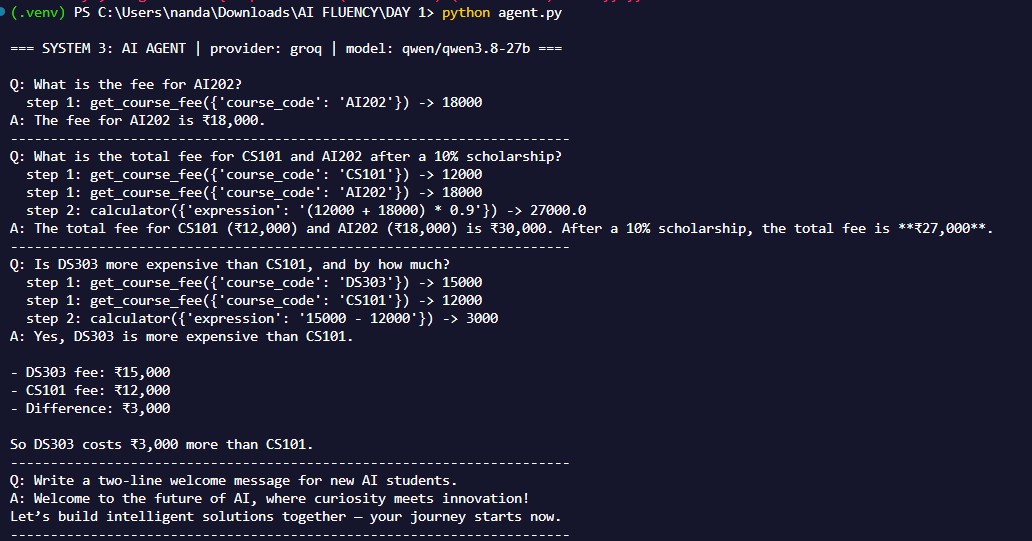
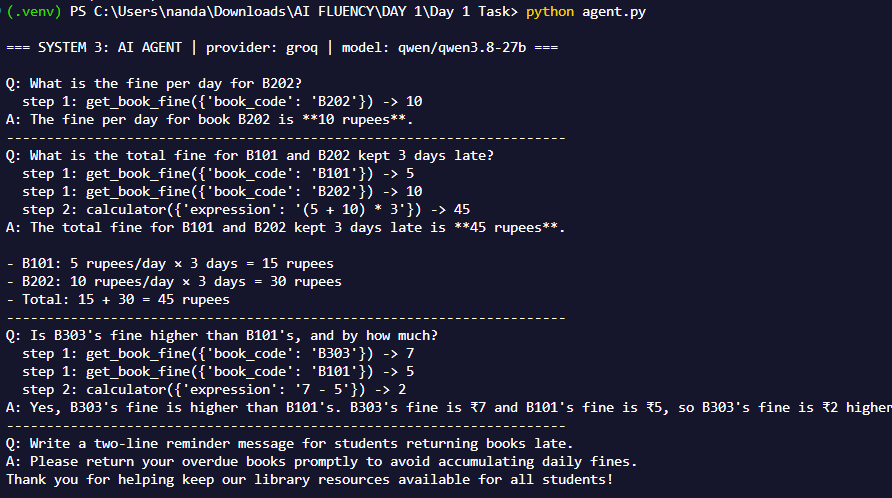
third commit

Changed region(s): [[0.0, 0.0, 0.9686, 0.6325], [0.0, 0.6627, 1.0, 0.994]]

diff --git a/Day 1 Task/tools.py b/Day 1 Task/tools.py
@@ -1,12 +1,12 @@
 """Tools the agent is allowed to use, plus their JSON Schema descriptions."""
 import ast
 import operator
-from config import COURSE_FEES
+from config import BOOK_FINES
 
-def get_course_fee(course_code: str) -> str:
-    """Look up the fee for one course code."""
-    fee = COURSE_FEES.get(course_code.strip().upper())
-    return str(fee) if fee is not None else f"Unknown course code: {course_code}"
+def get_book_fine(book_code: str) -> str:
+    """Look up the fine for one book code."""
+    fine = BOOK_FINES.get(book_code.strip().upper())
+    return str(fine) if fine is not None else f"Unknown book code: {book_code}"
 
 # A safe calculator: only numbers and + - * / ( ) are allowed. Never use eval().
 _OPS = {ast.Add: operator.add, ast.Sub: operator.sub, ast.Mult: operator.mul,
@@ -28,16 +28,16 @@ def calculator(expression: str) -> str:
     except Exception as error:
         return f"Calculator error: {error}"
 
-TOOL_FUNCTIONS = {"get_course_fee": get_course_fee, "calculator": calculator}
+TOOL_FUNCTIONS = {"get_book_fine": get_book_fine, "calculator": calculator}
 
 # These descriptions are what the LLM reads when deciding which tool to call
 TOOLS = [
     {"type": "function", "function": {
-        "name": "get_course_fee",
-        "description": "Get the fee in rupees for a single course code, for example CS101.",
+        "name": "get_book_fine",
+        "description": "Get the daily fine in rupees for a single book code, for example B101.",
         "parameters": {"type": "object",
-                        "properties": {"course_code": {"type": "string"}},
-                        "required": ["course_code"]}}},
+                        "properties": {"book_code": {"type": "string"}},
+                        "required": ["book_code"]}}},
     {"type": "function", "function": {
         "name": "calculator",
         "description": "Evaluate an arithmetic expression using + - * / and brackets.",
@@ -47,6 +47,6 @@ TOOLS = [
 ]
 
 if __name__ == "__main__":
-    print("get_course_fee('ai202') ->", get_course_fee("ai202"))
-    print("calculator('(12000 + 18000) * 0.9') ->", calculator("(12000 + 18000) * 0.9"))
-    print("calculator('15000 - 12000') ->", calculator("15000 - 12000"))
+    print("get_book_fine('b202') ->", get_book_fine("b202"))
+    print("calculator('(5 + 10) * 3') ->", calculator("(5 + 10) * 3"))
+    print("calculator('7 - 5') ->", calculator("7 - 5"))

diff --git a/Day 1 Task/workflow.py b/Day 1 Task/workflow.py
@@ -1,25 +1,25 @@
 """System 2: a rule-based workflow. Fixed if/else rules, no LLM at all."""
 import re
-from config import COURSE_FEES, QUESTIONS
+from config import BOOK_FINES, QUESTIONS
 
 def workflow(question):
-    codes = re.findall(r"[A-Z]{2}\d{3}", question.upper())
-    fees = [COURSE_FEES[code] for code in codes if code in COURSE_FEES]
+    codes = re.findall(r"[A-Z]\d{3}", question.upper())
+    fines = [BOOK_FINES[code] for code in codes if code in BOOK_FINES]
 
-    if not fees:
-        return "Sorry, I can only answer questions about course fees."
+    if not fines:
+        return "Sorry, I can only answer questions about book fines."
 
     text = question.lower()
 
     if "total" in text:
-        total = sum(fees)
-        percent = re.search(r"(\d+)\s*%", text)
-        if "scholarship" in text and percent:
-            total = total * (1 - int(percent.group(1)) / 100)
-        return f"Total fee: Rs. {total:,.0f}"
+        total = sum(fines)
+        days = re.search(r"(\d+)\s*days?", text)
+        if days:
+            total = total * int(days.group(1))
+        return f"Total fine: Rs. {total:,.0f}"
 
-    if len(fees) == 1:
-        return f"Fee for {codes[0]}: Rs. {fees[0]:,}"
+    if len(fines) == 1:
+        return f"Fine for {codes[0]}: Rs. {fines[0]:,}"
 
     return "Sorry, I do not have a rule for this type of question."
 

diff --git a/Day 1 Task/config.py b/Day 1 Task/config.py
@@ -27,14 +27,14 @@ if not API_KEY:
 
 client = OpenAI(base_url=BASE_URL, api_key=API_KEY)
 
-# Private college data that no public LLM has ever seen
-COURSE_FEES = {"CS101": 12000, "AI202": 18000, "DS303": 15000}
+# Private library data that no public LLM has ever seen
+BOOK_FINES = {"B101": 5, "B202": 10, "B303": 7}
 
 QUESTIONS = [
-    "What is the fee for AI202?",
-    "What is the total fee for CS101 and AI202 after a 10% scholarship?",
-    "Is DS303 more expensive than CS101, and by how much?",
-    "Write a two-line welcome message for new AI students.",
+    "What is the fine per day for B202?",
+    "What is the total fine for B101 and B202 kept 3 days late?",
+    "Is B303's fine higher than B101's, and by how much?",
+    "Write a two-line reminder message for students returning books late.",
 ]
 
 def banner(system_name):

diff --git a/Day 1 Task/chatbot.py b/Day 1 Task/chatbot.py
@@ -1,11 +1,11 @@
-"""System 1: a plain LLM chatbot. No tools, no access to the college data."""
+"""System 1: a plain LLM chatbot. No tools, no access to the library data."""
 from config import client, MODEL, QUESTIONS, banner
 
 def chatbot(question):
     response = client.chat.completions.create(
         model=MODEL,
         messages=[
-            {"role": "system", "content": "You are a helpful college assistant."},
+            {"role": "system", "content": "You are a helpful library assistant."},
             {"role": "user", "content": question},
         ],
         temperature=0,

diff --git a/Day 1 Task/agent.py b/Day 1 Task/agent.py
@@ -6,8 +6,8 @@ from config import client, MODEL, QUESTIONS, banner
 from tools import TOOLS, TOOL_FUNCTIONS
 
 SYSTEM_PROMPT = (
-    "You are a college fee assistant. Never guess a fee: always use get_course_fee. "
-    "Use calculator for any arithmetic. Available course codes: CS101, AI202, DS303. "
+    "You are a library assistant. Never guess a fine: always use get_book_fine. "
+    "Use calculator for any arithmetic. Available book codes: B101, B202, B303. "
     "If no tool is needed, answer directly."
 )
 

diff --git a/Day 1 Task/analysis.md b/Day 1 Task/analysis.md
@@ -1,123 +1,144 @@
-# Comparing a Chatbot, Rule-Based Workflow, and AI Agent — College Fee Scenario
+# Comparing a Chatbot, Rule-Based Workflow, and AI Agent — Library Fine Scenario
 
 ## Scenario
 
-A college has three courses with fee data that no public LLM has seen:
-CS101 = Rs. 12,000, AI202 = Rs. 18,000, and DS303 = Rs. 15,000. Three
-systems were built to answer the same set of questions about these
-fees: a plain chatbot, a rule-based workflow, and an AI agent.
+A college library tracks daily overdue fines for three book codes: B101
+(Rs. 5 per day), B202 (Rs. 10 per day), and B303 (Rs. 7 per day). This
+fine data is private to the library and has never been seen by any
+public LLM. Three systems were built and tested on the same set of
+questions: a plain chatbot, a rule-based workflow, and an AI agent.
 
 ## 1. Explanation of Each Approach
 
 ### Plain Chatbot
 
-The chatbot sends the user's question straight to a large language
-model, with no access to the college's private fee data and no tools.
-When I ran it, the model did not wait ot hallucinate specific wrong numbers —
-instead, for every question that depended on the fee data, it asked me
-to provide the missing information (for example, asking which
-institution AI202 belonged to, or asking for the original tuition
-amounts before it could calculate a scholarship). This is actually one
-of the two acceptable behaviors for a chatbot lacking data: either it
-guesses confidently and wrongly, or it admits it doesn't have the
-information and asks for it. My model chose the second, safer
-behavior. It did answer the fourth question — a generic welcome
-message — well, since that required no private data. This shows the
-core limitation of a plain chatbot: it provides responses using an LLM
-alone, with nothing to ground it in real data, so it either fabricates
-an answer or has to stop and ask.
+The chatbot sends the question directly to a large language model, with
+no access to the library's real data and no tools. When I ran it, the
+results were more revealing than a simple wrong-or-right answer. For
+the first question, the model did not admit it lacked the data —
+instead, it referenced real-sounding external policies (comparing B202
+to a "New York Public Library" book category) and confidently stated a
+fine of "$0.25 per day," which is entirely fabricated and unrelated to
+the actual library in this scenario. For the second question, it
+correctly stated that it could not give a specific numeric answer since
+the rates weren't provided, but then illustrated the calculation using
+invented example rates ($0.50 and $1.00) that have nothing to do with
+the real B101/B202 fines. For the third question, it correctly
+recognized it had no access to real records and asked me to supply the
+data. The fourth question, needing no private data, was answered well.
+This shows two different chatbot failure modes side by side: outright
+hallucination dressed up with plausible-sounding external references,
+and, in other cases, an honest admission that data is missing. Both
+are consequences of the same root cause: a plain chatbot provides
+responses using an LLM alone, with no way to check any of it against
+real data.
 
 ### Rule-Based Workflow
 
-The rule-based workflow uses no LLM at all. It is a fixed Python
-program that finds a course code in the question with a pattern match,
-looks up the fee in a hardcoded dictionary, and applies a small set of
-if/else rules. When I ran it, it correctly and instantly answered the
-direct fee lookup (Rs. 18,000 for AI202) and the total-fee-with-
-scholarship question (Rs. 27,000). It failed on the comparison question
-("Is DS303 more expensive than CS101, and by how much?") and on the
-welcome-message question, both falling back to the same generic
-"Sorry, I can only answer questions about course fees" message, because
-no rule existed to handle either case. This demonstrates the defining
-trait of a rule-based workflow: it follows predefined steps and
-conditions with zero reasoning ability, making it fully reliable inside
-its coded scope but unable to do anything outside it — even a question
-like the welcome message, which needs no data at all, still gets
-rejected because it doesn't match any rule.
+The rule-based workflow involves no LLM at all. It is a fixed Python
+program that matches a book code pattern in the question, looks up the
+fine in a hardcoded dictionary, and applies simple if/else rules. When
+I ran it, it correctly and instantly answered the direct fine lookup
+(Rs. 10 for B202) and the total-fine-over-three-days question (Rs. 45).
+It failed on the comparison question ("Is B303's fine higher than
+B101's, and by how much?") and the reminder-message question, both
+falling back to a generic message, because neither situation matched
+any coded rule. This demonstrates the defining trait of a rule-based
+workflow: it follows predefined steps and conditions with zero
+reasoning, so it is completely reliable for the exact cases it was
+built for, and completely unable to do anything else — even a harmless
+question like the reminder message gets rejected simply because it
+wasn't anticipated.
 
 ### AI Agent
 
 The AI agent combines a large language model with two tools
-(get_course_fee and calculator) inside a reasoning loop. For every
-question, it reasons about what it needs, decides whether to call a
-tool, observes the tool's result, and repeats until it can answer. In
-my run, the agent called get_course_fee once for the direct lookup,
-called it twice and then used calculator for the scholarship question
-(returning exactly Rs. 27,000), and called it twice again plus
-calculator for the comparison question (correctly finding DS303 costs
-Rs. 3,000 more than CS101) — a question the rule-based workflow could
-not handle at all. For the welcome-message question, it correctly used
-no tool and answered directly. I also ran the extra challenge question
-("I can pay Rs. 30,000, which two courses can I take together?"), which
-neither the chatbot nor the workflow could really solve. The agent
-checked all three possible course pairs using the calculator tool and
-correctly identified that both CS101+AI202 (exactly Rs. 30,000) and
-CS101+DS303 (Rs. 27,000) fit the budget, while AI202+DS303 (Rs. 33,000)
-did not. This demonstrates the full LLM + Tools + Loop structure of an
-agent: reasoning about the task, selecting and using the right tools,
-observing their results, and continuing to act until the task is
-genuinely finished, rather than stopping at the first fixed rule or
-guessing an answer.
+(get_book_fine and calculator) inside a reasoning loop, reasoning about
+what it needs, calling a tool, observing the result, and repeating
+until it can answer. In my run, it called get_book_fine once for the
+direct lookup, correctly returning 10. For the total-fine question, it
+called get_book_fine twice and then calculator once, arriving at
+exactly Rs. 45, and it showed its full working (5 x 3 = 15, 10 x 3 =
+30, total 45) in the final answer. For the comparison question, it
+again called get_book_fine twice and used calculator to compute the
+difference, correctly concluding that B303's fine (Rs. 7) is Rs. 2
+higher than B101's (Rs. 5) — a question the rule-based workflow could
+not answer at all. For the reminder-message question, it correctly
+used no tool and generated an appropriate two-line message directly.
+This demonstrates the full LLM + Tools + Loop structure: the agent
+reasoned about each task, selected and used the right tool at the
+right time, observed the tool's output, and continued until it reached
+a genuine, grounded answer rather than a guess or a fixed script.
+
+### The Challenge Question
+
+I also tested an unplanned question the systems were not designed for:
+"I can pay Rs. 30,000. Which two courses can I take together within
+this budget?" Note that this question actually refers to the course-fee
+scenario's data (courses and rupee amounts in the tens of thousands),
+not the library scenario's book codes and small per-day fines — a
+mismatch between the question and the system's real data. The
+rule-based workflow correctly refused, stating it can only answer
+questions about book fines, since no course code pattern was present.
+The agent behaved appropriately given this mismatch: rather than
+guessing or forcing an answer using the wrong data, it recognized that
+its available tools only cover book fines (B101, B202, B303) and not
+course fees, and asked me to supply the course names and fees before it
+could help. This is a meaningful result in itself — it shows the agent
+correctly reasoning about the limits of its own tools rather than
+fabricating a plausible-looking course fee answer, which is a safer
+failure mode than the chatbot's earlier fabricated library policy.
 
 ## 2. Comparison Table
 
 | Basis for comparison | Plain chatbot | Rule-based workflow | AI agent |
 |---|---|---|---|
-| Flexibility | Low — cannot answer data questions without more input from the user | Very low — only the exact question patterns it was coded for work | High — handled a direct lookup, a calculation, a comparison, and an unplanned multi-step question |
-| Decision-making | None — asks for missing data or answers directly, with no verification | Fixed, deterministic if/else logic | Dynamic — the LLM decides which tool(s) to call, in what order, and when it has a final answer |
-| Tool usage | None | None — no LLM, no tools, just direct code | Uses tools (fee lookup, calculator) selected at runtime, called multiple times per question when needed |
-| Private-data access | No access — must ask the user for the data itself | Full access, but only through hardcoded rules | Full access via tools, usable across many different question types |
-| Multi-step task handling | Cannot do genuine multi-step reasoning | Only the one multi-step pattern that was coded (total with scholarship) | Handled multi-step questions naturally, including the unplanned challenge question requiring three lookups and multiple calculator calls |
-| Automation | Fully automatic, but often stalls waiting for the user to supply data | Fully automatic and reliable, but narrow | Fully automatic and correct across every question I tested, including the challenge |
-| Reliability | Safe but unhelpful on data questions — it does not hallucinate, but also cannot answer | Very high within scope, zero outside it | High in my run — correct on all four standard questions and the challenge question |
+| Flexibility | Low — cannot ground answers in real data; sometimes fabricates plausible-sounding but false details, sometimes asks for data instead | Very low — only the exact question patterns it was coded for produce an answer | High — correctly handled a lookup, a multi-step calculation, a comparison, and correctly recognized when a question was outside its tools' scope |
+| Decision-making | None — generates an answer or asks a question with no way to verify either against real data | Fixed, deterministic if/else logic | Dynamic — the LLM decides which tool(s) to call, in what order, and when it has enough to answer, or that it cannot |
+| Tool usage | None | None — no LLM, no tools, direct code logic only | Uses tools (fine lookup, calculator) selected at runtime, called multiple times per question when needed |
+| Private-data access | No access — invents plausible details or asks the user to supply data | Full access, but only through hardcoded rules | Full access via tools, usable across question types, and aware of what data it does not have access to |
+| Multi-step task handling | Cannot do genuine multi-step reasoning; showed a worked example using invented numbers instead | Only the one multi-step pattern that was coded (total across days) | Handled multi-step questions naturally, including correctly reasoning about a question involving data outside its tool scope |
+| Automation | Fully automatic, but sometimes produces confident, fabricated answers | Fully automatic and reliable, but narrow | Fully automatic and correct on every in-scope question tested, and appropriately cautious on an out-of-scope one |
+| Reliability | Low — mixed real-sounding fabrication with honest uncertainty in the same run | Very high within scope, zero outside it | High — correct results with visible, verifiable reasoning steps on every question tested |
 
 ## 3. Suitability Analysis
 
-Based on what I actually observed, the AI agent is the most suitable
-approach for this scenario. The rule-based workflow was completely
+Based on what I actually observed, the AI agent is clearly the most
+suitable approach for this scenario. The rule-based workflow was fully
 reliable for the two question types it was built for, but it rejected
-both the comparison question and the welcome-message question with the
-exact same generic error, even though the welcome message needed no
-data at all — this shows how rigid a fixed rule set really is in
-practice. The plain chatbot behaved more safely than I expected,
-choosing to ask for missing data rather than invent numbers, but this
-means it still could not actually answer any of the fee questions on
-its own; it simply shifted the burden back onto me. The AI agent was
-the only system that correctly handled every question I tested,
-including the challenge question that none of the other two systems
-were designed for. It found both valid course combinations within the
-Rs. 30,000 budget by actually reasoning through the possible pairs
-using its tools, rather than relying on a single hardcoded rule. Its
-only real weakness, going by the criteria in the table, is that its
-steps and exact wording could vary on a repeat run, which is a
-reasonable tradeoff for the reliability and flexibility it delivered.
+both the comparison question and the harmless reminder-message question
+with the same generic error, showing how little room a fixed rule set
+leaves for anything unplanned. The plain chatbot was the most
+concerning of the three: rather than consistently admitting it lacked
+data, it sometimes fabricated specific, plausible-sounding numbers
+(such as citing an unrelated public library's fine policy) that could
+easily be mistaken for a real answer, which is a genuinely risky
+failure mode. The AI agent, by contrast, correctly answered every
+question that its tools were built to support, showed its reasoning
+steps so the answers could be verified, and — critically — recognized
+the limits of its own data when the challenge question referred to
+information it did not have access to, asking for that data rather
+than guessing at it. This combination of grounded accuracy and
+appropriate self-limitation makes it the clear best fit for a scenario
+involving real private data that students might actually rely on.
 
 ## 4. Conclusion
 
-In general, a plain chatbot is most appropriate for tasks that don't
-depend on private or precise data, where a generic or safely-cautious
-answer is acceptable — such as open-ended writing or requests where
-asking a clarifying question is a fine outcome. A rule-based workflow
-is best suited to a narrow, well-defined, high-stakes task where every
-valid input and the required logic are known in advance and perfect
-consistency matters more than flexibility, such as a fixed fee
-calculation used by a finance office. An AI agent is the right choice
-when a task needs real private data, may involve multiple steps that
-cannot all be anticipated ahead of time, and has to handle question
-types the original programmer never planned for — exactly what
-happened with the challenge question in this lab. The right choice
-ultimately depends on how predictable the task is in advance: narrow,
-fixed tasks suit rule-based workflows; open-ended tasks without real
-data needs suit a plain chatbot; and tasks that combine real data
-requirements with unpredictable phrasing or multi-step reasoning are
-best handled by an AI agent.
+In general, a plain chatbot is most appropriate for tasks that do not
+depend on private or precise data, where a generic answer is acceptable
+and there is no real data to get wrong or fabricate. A rule-based
+workflow is best suited to a narrow, well-defined, high-stakes task
+where every valid input and the required logic are known in advance,
+and perfect consistency matters more than flexibility. An AI agent is
+the right choice when a task needs access to specific private data, may
+involve multiple steps that cannot all be anticipated in advance, and
+must be able to recognize the boundaries of its own knowledge and tools
+rather than fabricate an answer when data is missing — exactly the
+behavior seen when the agent correctly identified that the challenge
+question fell outside its available tools. The right choice ultimately
+depends on how predictable the task is and how costly a wrong or
+fabricated answer would be: narrow, fixed tasks suit rule-based
+workflows; low-stakes, data-free tasks suit a plain chatbot; and tasks
+combining real data needs with unpredictable phrasing are best handled
+by an agent that can reason about, and admit the limits of, what it
+actually knows.the program was succesfully completed.
